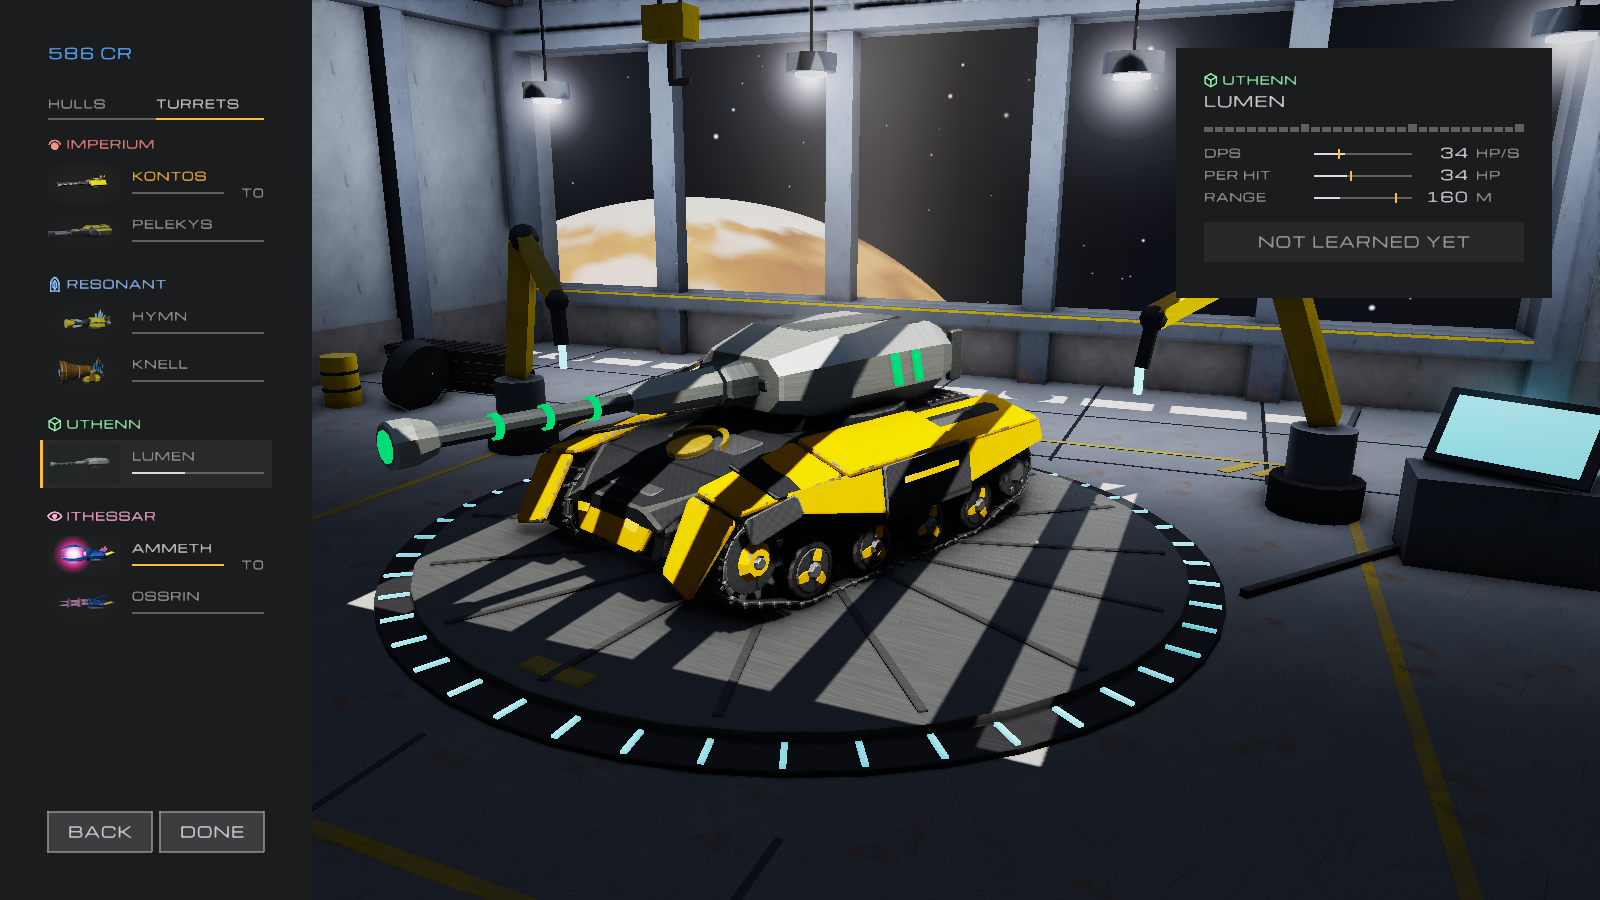
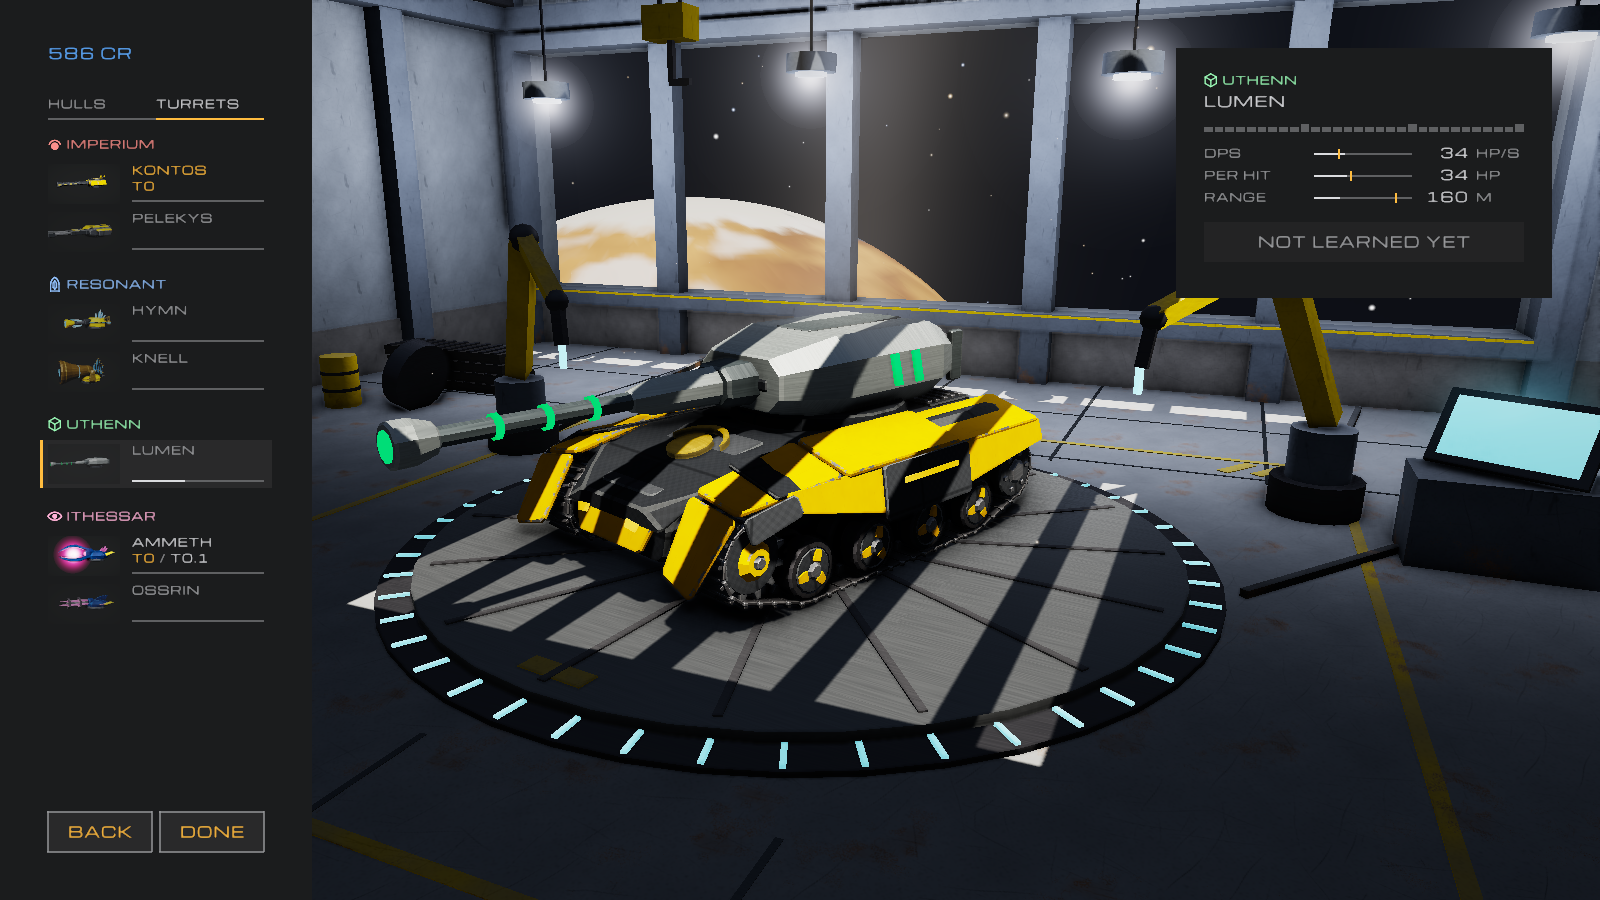
Garage: one kind of button; tiers built to and learned to
Claude-Session: https://claude.ai/code/session_01MEmTqFXsPKRSwTWA17Ss4y

diff --git a/src/garage.rs b/src/garage.rs
@@ -28,7 +28,7 @@ use crate::render::{Camera, UiVertex};
 use crate::sim::{Chassis, HullKind, HullStats, Tank, TurretKind, World, wrap_angle};
 use crate::thumbs::Thumbs;
 use crate::ui::emblem;
-use crate::ui::{Align, Hits, Layer, Painter, TextStyle, design, theme, with_alpha};
+use crate::ui::{Align, Hits, Layer, Painter, TextStyle, design, measure, theme, with_alpha};
 
 const REF_HEIGHT: f32 = 900.0;
 pub const PANEL_X: f32 = 64.0;
@@ -280,15 +280,38 @@ fn tab_parts(section: usize) -> Vec<Part> {
     }
 }
 
-/// How far along `part` is to its next step, 0..1: full once that can be
-/// bought (or there's none left).
+/// How far along learning `part`'s next step is, 0..1 (full once there's none).
 fn progress(part: Part, profile: &Profile) -> f32 {
     let known = profile.known.of(part);
-    let cap = profile.known.cap(part);
-    if cap > profile.levels.of(part) || cap >= crate::economy::MAX_LEVEL {
+    if profile.known.cap(part) >= crate::economy::MAX_LEVEL {
         1.0
     } else {
         known - known.floor()
+    }
+}
+
+/// `part`'s tiers at `at`, aligned like text: the one it's built to in amber,
+/// then, if you've learned further, how far in white, as on its track.
+fn tiers(p: &mut Painter, at: Vec2, part: Part, profile: &Profile, style: TextStyle, align: Align) {
+    use design::{AMBER, TEXT, TEXT_2};
+    if !profile.owns(part) {
+        return;
+    }
+    let (level, cap) = (profile.levels.of(part), profile.known.cap(part));
+    let mut text = vec![(crate::economy::level_label(level), AMBER)];
+    if cap > level {
+        text.push((" / ".to_string(), TEXT_2));
+        text.push((crate::economy::level_label(cap), TEXT));
+    }
+    let gap = style.tracking;
+    let wide: f32 = text.iter().map(|(t, _)| measure(t, &style) + gap).sum();
+    let mut x = match align {
+        Align::Right => at.x - wide + gap,
+        _ => at.x,
+    };
+    for (t, color) in text {
+        p.text(Vec2::new(x, at.y), &t, &style.colored(color), Align::Left);
+        x += measure(&t, &style) + gap;
     }
 }
 
@@ -636,7 +659,7 @@ impl Garage {
         width: f32,
         height: f32,
     ) -> Layer<Hit> {
-        use design::{BLUE, BODY, BUTTON, MARGIN, Press, SMALL, TEXT_2, UNIT};
+        use design::{BLUE, BODY, BUTTON, MARGIN, SMALL, TEXT_2, UNIT};
         let e = smooth(self.blend);
         if e <= 0.0 {
             return Layer::empty();
@@ -668,7 +691,7 @@ impl Garage {
             .enumerate()
         {
             let min = Vec2::new(x + (bw + UNIT) * k as f32, foot);
-            self.button(&mut p, &mut hits, min, bw, name, Press::Other, Some(input));
+            self.button(&mut p, &mut hits, min, bw, name, Some(input));
         }
 
         self.draw_stats(&mut p, &mut hits, w, queued, profile);
@@ -765,8 +788,8 @@ impl Garage {
         }
     }
 
-    /// One row: the part (dark if it isn't yours), its name (amber if it's
-    /// on), and how far along it is, with its tier once it's yours.
+    /// One row: the part (faded if it isn't yours), its name (amber if it's
+    /// on), its tiers once it's yours, and how far along learning the next is.
     fn draw_row(&self, p: &mut Painter, min: Vec2, part: Part, equipped: bool, profile: &Profile) {
         use design::{AMBER, SMALL, TEXT, TEXT_2, UNIT};
         let owned = profile.owns(part);
@@ -793,23 +816,13 @@ impl Garage {
             (_, true) => TEXT,
             _ => TEXT_2,
         });
-        p.text(Vec2::new(x, min.y + UNIT), part.name(), &style, Align::Left);
-        let y = min.y + UNIT * 3.5;
-        let mut end = right;
-        if owned {
-            let tier = crate::economy::level_label(profile.levels.of(part));
-            let at = Vec2::new(right, y - SMALL.size * 0.5 + 1.0);
-            end -= UNIT * 5.0;
-            p.text(at, &tier, &SMALL.colored(TEXT_2), Align::Right);
-        }
-        let k = progress(part, profile);
-        p.rect(
-            Vec2::new(x, y),
-            Vec2::new(end - x, 2.0),
-            with_alpha(TEXT_2, 0.3),
-        );
-        let color = if k >= 1.0 { AMBER } else { TEXT };
-        p.rect(Vec2::new(x, y), Vec2::new((end - x) * k, 2.0), color);
+        p.text(Vec2::new(x, min.y + 2.0), part.name(), &style, Align::Left);
+        let at = Vec2::new(x, min.y + UNIT * 2.25);
+        tiers(p, at, part, profile, SMALL, Align::Left);
+        let bar = Vec2::new(x, min.y + UNIT * 4.5);
+        let w = right - x;
+        p.rect(bar, Vec2::new(w, 2.0), with_alpha(TEXT_2, 0.3));
+        p.rect(bar, Vec2::new(w * progress(part, profile), 2.0), TEXT);
     }
 
     /// The highlighted part's card, top right over the scene: what it is, how
@@ -822,7 +835,7 @@ impl Garage {
         queued: Loadout,
         profile: &Profile,
     ) {
-        use design::{BODY, BUTTON, GROUND, MARGIN, Press, SMALL, UNIT};
+        use design::{BODY, BUTTON, GROUND, MARGIN, SMALL, UNIT};
         let part = self.focused();
         let (items, stats, equipped) = if self.section == 0 {
             (tab_parts(0), &HULL_STATS[..], Part::Hull(queued.0))
@@ -847,11 +860,8 @@ impl Garage {
         emblem::faction_name(p, Vec2::new(x, y), maker, &style, Align::Left);
         y += UNIT * 2.5;
         p.text(Vec2::new(x, y), part.name(), &BODY, Align::Left);
-        if profile.owns(part) {
-            let tier = crate::economy::level_label(profile.levels.of(part));
-            let at = Vec2::new(x + STATS_W, y);
-            p.text(at, &tier, &BODY, Align::Right);
-        }
+        let at = Vec2::new(x + STATS_W, y);
+        tiers(p, at, part, profile, BODY, Align::Right);
         y += UNIT * 3.5;
         let (level, cap) = (profile.levels.of(part), profile.known.cap(part));
         upgrade_track(p, Vec2::new(x, y), STATS_W, level, cap);
@@ -871,14 +881,9 @@ impl Garage {
             y += STAT_ROW;
         }
         y += UNIT;
-        for (i, (text, input)) in actions.iter().enumerate() {
-            let press = match input {
-                None => Press::Off,
-                Some(_) if i == 0 => Press::Main,
-                Some(_) => Press::Other,
-            };
+        for (text, input) in &actions {
             let min = Vec2::new(x, y);
-            self.button(p, hits, min, STATS_W, text, press, *input);
+            self.button(p, hits, min, STATS_W, text, *input);
             y += BUTTON + UNIT;
         }
     }
@@ -892,11 +897,10 @@ impl Garage {
         min: Vec2,
         width: f32,
         text: &str,
-        press: design::Press,
         input: Option<Input>,
     ) {
         let hover = input.is_some_and(|i| self.hover == Some(Hit::Key(i)));
-        design::button(p, min, width, text, press, hover);
+        design::button(p, min, width, text, input.is_some(), hover);
         if let Some(i) = input {
             let size = Vec2::new(width, design::BUTTON);
             hits.add(p, min, size, Hit::Key(i));
@@ -1075,7 +1079,6 @@ fn smooth(t: f32) -> f32 {
 #[cfg(test)]
 mod tests {
     use super::*;
-    use crate::ui::measure;
 
     #[test]
     fn upgrade_steps_are_bought_then_available_then_locked() {
@@ -1119,10 +1122,10 @@ mod tests {
             ]
         );
         assert_eq!(progress(kastron, &p), 0.5);
-        // Known further: the bar's full, and crystals decide.
+        // Known further: crystals decide.
         p.known.set(kastron, 2.5);
         p.crystals = 0;
-        assert_eq!(progress(kastron, &p), 1.0);
+        assert_eq!(progress(kastron, &p), 0.5);
         assert!(words(&p, kastron)[1].0.contains("costs"));
         p.crystals = 100_000;
         assert!(words(&p, kastron)[1].1);

diff --git a/src/ui/design.rs b/src/ui/design.rs
@@ -90,39 +90,23 @@ pub fn link(p: &mut Painter, at: Vec2, name: &str, on: bool) -> (Vec2, Vec2) {
     )
 }
 
-/// How loud a button is.
-#[derive(Clone, Copy, Debug, PartialEq)]
-pub enum Press {
-    /// The thing to do.
-    Main,
-    /// Something else you can do.
-    Other,
-    /// Can't be pressed: it says why.
-    Off,
-}
-
 /// How tall a button is.
 pub const BUTTON: f32 = UNIT * 5.0;
 
-/// A button `width` wide, its top left at `min`.
-pub fn button(p: &mut Painter, min: Vec2, width: f32, text: &str, press: Press, hover: bool) {
+/// A button `width` wide, its top left at `min`: amber in a box if it can be
+/// pressed (`on`), flat and grey, saying why, if it can't.
+pub fn button(p: &mut Painter, min: Vec2, width: f32, text: &str, on: bool, hover: bool) {
     let size = Vec2::new(width, BUTTON);
-    let (fill, ink) = match press {
-        Press::Main if hover => (TEXT, GROUND),
-        Press::Main => (AMBER, GROUND),
-        Press::Other if hover => (with_alpha(TEXT, 0.14), TEXT),
-        Press::Other => (with_alpha(TEXT, 0.05), TEXT),
-        Press::Off => (with_alpha(TEXT, 0.012), TEXT_2),
+    let fill = match (on, hover) {
+        (true, true) => 0.06,
+        (true, false) => 0.015,
+        (false, _) => 0.008,
     };
-    p.rect(min, size, fill);
-    if press == Press::Other {
+    p.rect(min, size, with_alpha(TEXT, fill));
+    if on {
         p.rect_outline(min, size, 1.0, TEXT_2);
     }
-    let mut style = BODY.colored(ink);
-    if press == Press::Main {
-        // Dark on bright reads thinner than it is.
-        style.weight = 2.4;
-    }
+    let style = BODY.colored(if on { AMBER } else { TEXT_2 });
     let at = Vec2::new(min.x + width * 0.5, min.y + (BUTTON - style.size) * 0.5);
     p.text(at, text, &style, Align::Center);
 }
